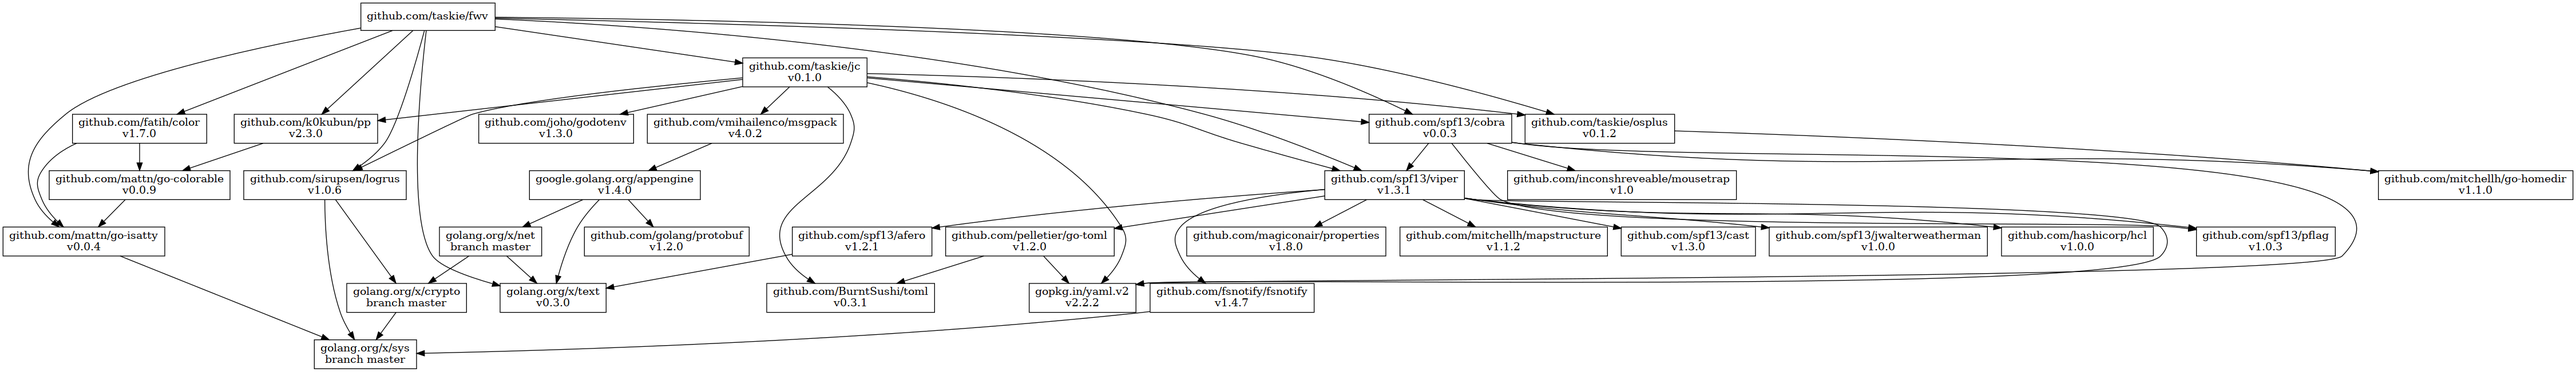
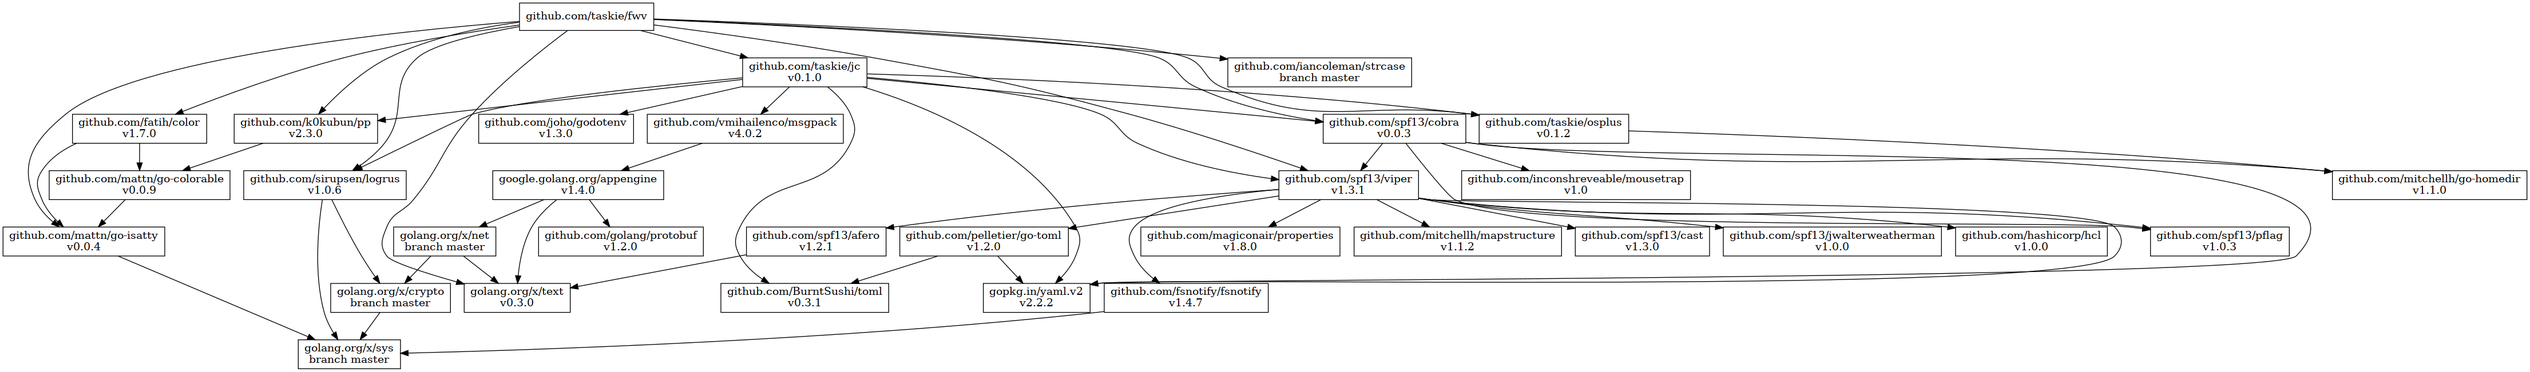
update CLI

diff --git a/cli/fwv/cli.go b/cli/fwv/cli.go
@@ -5,6 +5,8 @@ import (
 	"os"
 	"path/filepath"
 
+	"github.com/iancoleman/strcase"
+
 	"github.com/mattn/go-isatty"
 
 	"github.com/taskie/fwv"
@@ -32,22 +34,25 @@ const CommandName = "fwv"
 
 func init() {
 	Command.PersistentFlags().StringVarP(&configFile, "config", "c", "", `config file (default "`+CommandName+`.yml")`)
-	Command.Flags().StringP("fromType", "f", "", "convert from [fwv|csv]")
-	Command.Flags().StringP("toType", "t", "", "convert to [fwv|csv]")
-	Command.Flags().BoolP("noWidth", "W", false, "NOT use char width")
-	Command.Flags().BoolP("eaaHalfWidth", "E", false, "treat East Asian Ambiguous as half width")
-	Command.Flags().BoolP("showColumnRanges", "r", false, "show column ranges")
-	Command.Flags().BoolP("noTrim", "T", false, "NOT trim whitespaces")
+	Command.Flags().StringP("from-type", "f", "fwv", "convert from [fwv|csv]")
+	Command.Flags().StringP("to-type", "t", "fwv", "convert to [fwv|csv]")
+	Command.Flags().BoolP("no-width", "W", false, "NOT use char width")
+	Command.Flags().BoolP("eaa-half-width", "E", false, "treat East Asian Ambiguous as half width")
+	Command.Flags().BoolP("show-column-ranges", "r", false, "show column ranges")
+	Command.Flags().BoolP("no-trim", "T", false, "NOT trim whitespaces")
 	Command.Flags().BoolP("color", "C", false, "colorize output")
-	Command.Flags().BoolP("noColor", "M", false, "NOT colorize output (monochrome)")
+	Command.Flags().BoolP("no-color", "M", false, "NOT colorize output (monochrome)")
 	Command.Flags().StringP("whitespaces", "s", " ", "characters treated as whitespace")
 	Command.Flags().StringP("delimiter", "d", " ", "delimiter used for FWV output")
 	Command.Flags().BoolVarP(&verbose, "verbose", "v", false, "verbose output")
-	Command.Flags().BoolVarP(&debug, "debug", "g", false, "debug output")
+	Command.Flags().BoolVar(&debug, "debug", false, "debug output")
 	Command.Flags().BoolVarP(&version, "version", "V", false, "show Version")
 
-	for _, s := range []string{"fromType", "toType", "noWidth", "eaaHalfWidth", "showColumnRanges", "noTrim", "color", "noColor", "whitespaces", "delimiter"} {
-		viper.BindPFlag(s, Command.Flags().Lookup(s))
+	for _, s := range []string{"from-type", "to-type", "no-width", "eaa-half-width", "show-column-ranges", "no-trim", "color", "no-color", "whitespaces", "delimiter"} {
+		envKey := strcase.ToSnake(s)
+		structKey := strcase.ToCamel(s)
+		viper.BindPFlag(envKey, Command.Flags().Lookup(s))
+		viper.RegisterAlias(structKey, envKey)
 	}
 
 	cobra.OnInitialize(initConfig)
@@ -74,6 +79,7 @@ func initConfig() {
 		}
 		viper.AddConfigPath(".")
 	}
+	viper.BindEnv("no_color")
 	viper.SetEnvPrefix(CommandName)
 	viper.AutomaticEnv()
 
